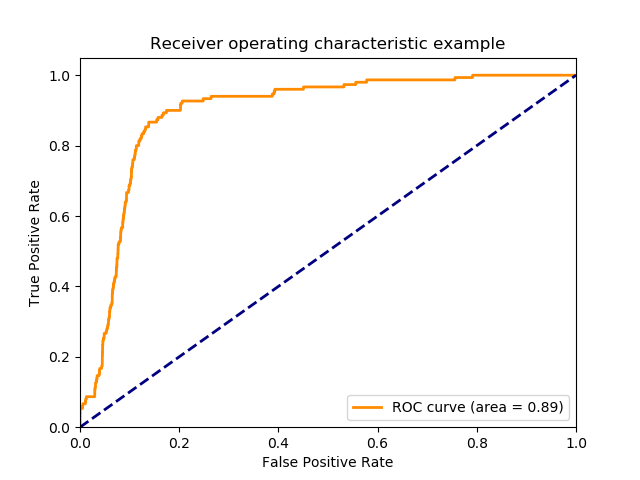
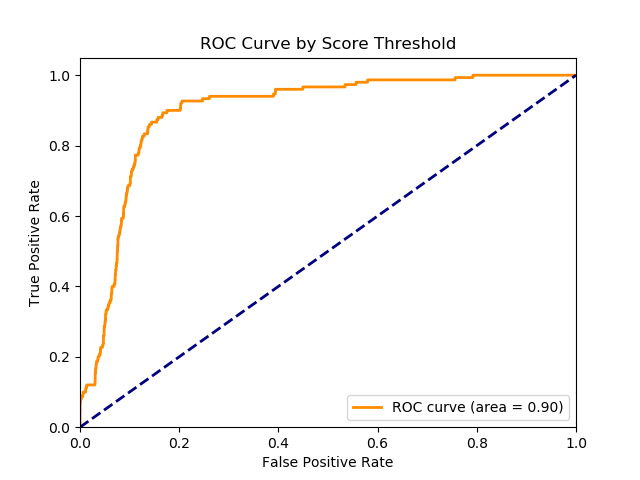
added linear_weight_optimization funciton

Changed region(s): [[0.2188, 0.0625, 0.7812, 0.125], [0.125, 0.25, 0.25, 0.8438], [0.8438, 0.8438, 0.875, 0.875]]

diff --git a/source/engine/weights.py b/source/engine/weights.py
@@ -11,26 +11,50 @@ from engine import Engine
 class WeightVector:
     @staticmethod
     def cartisian_weight_approximation(n_features, axis_lim, inc):
-        # total_expected_run_time_in_hrs = (single_run_in_min * dimension_single_axis^dimension_weights)/60
+        # total_expected_run_time_in_hrs = (single_run_in_min *
+        #                                   dimension_single_axis^dimension_weights)/60
         all_weights = list(itertools.product(range(axis_lim[0], axis_lim[1]+inc, inc), repeat=n_features))
         total_engine_runs = len(all_weights)
         logging.info('Beginning cartisian_weight_approximation')
         logging.info(f'Planning out {total_engine_runs} engine runs.')
 
         t1 = time.time()
-        temp_dict = []
-        with progressbar.ProgressBar(max_value=total_engine_runs) as bar:
-            for weights in all_weights:
-                engine = Engine()
-                engine.rank_all_questions(weights, log_disabled=True)
-                weight_dict = {f'f{i}': w for i, w in enumerate(weights)}
-                weight_dict['error'] = engine.residuals.get_total_error()
-                temp_dict.append(weight_dict)
-                # bar.update(i)
+        results_dict = []
+        bar = progressbar.ProgressBar()
+        for weights in bar(all_weights):
+            engine = Engine(log_disabled=True, visuals_active=False)
+            engine.rank_all_questions(weights, None)
+            weight_dict = {f'f{i}': w for i, w in enumerate(weights)}
+            weight_dict['error'] = engine.residuals.get_total_error()
+            results_dict.append(weight_dict)
 
         t2 = time.time()
         logging.info(f'cartisian_weight_approximation finished in {(t2-t1)/60} minutes.')
-        pd.DataFrame(temp_dict).to_csv('error_by_cartisian_weight.csv', index=False)
+        pd.DataFrame(results_dict).to_csv('error_by_cartisian_weight.csv', index=False)
+
+    @staticmethod
+    def linear_weight_tune(features, axis_lim, inc):
+        results_dict = []
+        init_w = np.repeat(1, len(features))
+
+        logging.info('Beginning linear_weight_tune')
+        total_engine_runs = len(list(range(axis_lim[0], axis_lim[1], inc))) * len(features)
+        logging.info(f'Planning out {total_engine_runs} engine runs.')
+
+        t1 = time.time()
+        bar = progressbar.ProgressBar()
+        for feature_i in bar(range(len(features))):
+            for weight in range(axis_lim[0], axis_lim[1], inc):
+                weights = init_w.copy()
+                weights[feature_i] = weight
+                engine = Engine(log_disabled=True, visuals_active=False)
+                engine.rank_all_questions(weights, None)
+                weight_dict = {feature: weights[i] for i, feature in enumerate(features)}
+                weight_dict['error'] = engine.residuals.get_total_error()
+                results_dict.append(weight_dict)
+        t2 = time.time()
+        logging.info(f'linear_weight_tune finished in {(t2-t1)/60} minutes.')
+        pd.DataFrame(results_dict).to_csv('error_by_linear_weight.csv', index=False)
 
     @staticmethod
     def tune_weight_vector(n_features, base_alpha=2, exponential_increase=5):
@@ -41,8 +65,8 @@ class WeightVector:
         logging.info(f'Initial random weights: {weights}')
 
         t1 = time.time()
-        engine = Engine()
-        engine.rank_all_questions(weights, log_disabled=True)
+        engine = Engine(log_disabled=True, visuals_active=False)
+        engine.rank_all_questions(weights, None)
         prev_error = engine.residuals.get_total_error()
 
         bar = progressbar.ProgressBar()
@@ -53,7 +77,6 @@ class WeightVector:
         t2 = time.time()
         logging.info(f'\nFinished gradient descent in {(t2-t1)/60} minutes.'
                      f'\nThe final weight vector is {weights}.')
-        engine.rank_all_questions(weights, log_disabled=False)
         return weights
 
     @staticmethod
@@ -70,8 +93,8 @@ class WeightVector:
 
                 a *= exp_increase
                 adjust_weight(increase)
-                e = Engine()
-                e.rank_all_questions(w, log_disabled=True)
+                e = Engine(log_disabled=True, visuals_active=False)
+                e.rank_all_questions(w, None)
                 p_error = c_error
                 c_error = engine.residuals.get_total_error()
             return p_weight
@@ -81,8 +104,8 @@ class WeightVector:
         alpha *= exp_increase
         adjust_weight(True)
 
-        engine = Engine()
-        engine.rank_all_questions(w, log_disabled=True)
+        engine = Engine(log_disabled=True, visuals_active=False)
+        engine.rank_all_questions(w, None)
         current_error = engine.residuals.get_total_error()
         # if the error decreases, repeat the same operation unit it does not
         if current_error < prev_error:
@@ -95,7 +118,7 @@ class WeightVector:
             w[i] = prev_weight
             adjust_weight(False)
 
-            engine = Engine()
-            engine.rank_all_questions(w, log_disabled=True)
+            engine = Engine(log_disabled=True, visuals_active=False)
+            engine.rank_all_questions(w, None)
             current_error = engine.residuals.get_total_error()
             return loop_until_error_increase(current_error, prev_error, alpha, False)

diff --git a/source/engine/engine.py b/source/engine/engine.py
@@ -122,8 +122,8 @@ class Engine:
     t1 = time.time()
 
     # load questions and all user activities
-    X = pd.read_csv(BASE_PATH + 'X_train.csv').head(33)
-    y = pd.read_csv(BASE_PATH + 'y_train.csv').head(33)
+    X = pd.read_csv(BASE_PATH + 'X_train.csv').head(35) #.sample(35, random_state=42)
+    y = pd.read_csv(BASE_PATH + 'y_train.csv').head(35) #.sample(35, random_state=42)
     X['CreationDate'] = pd.to_datetime(X['CreationDate'], format="%Y-%m-%dT%H:%M:%S")
 
     # load engineered features
@@ -144,18 +144,23 @@ class Engine:
     t2 = time.time()
     logging.info(f'DataFrame loading finished in time {t2 - t1} seconds.\n')
 
-    def __init__(self):
-        self.residuals = Residuals(Engine.X, Engine.y)
-        self.recommender_user_matrix = np.zeros((len(Engine.X), len(Engine.unique_users_list)))
-        self.recommender_score_matrix = np.zeros((len(Engine.X), len(Engine.unique_users_list)))
-        self.recommender_label_matrix = np.zeros((len(Engine.X), len(Engine.unique_users_list)))
+    def __init__(self, log_disabled=False, save_feature_matrices=False,
+                 visuals_active=True):
+        self.log_disabled, self.save_feature_matrices, \
+            self.visuals_active = log_disabled, save_feature_matrices, visuals_active
 
-    def rank_all_questions(self, w, opt_activity, log_disabled=False, save_output=False):
-        if save_output and not os.path.exists('feature_matrices'):
+        self.residuals = Residuals(Engine.X, Engine.y)
+        if visuals_active:
+            self.recommender_user_matrix = np.zeros((len(Engine.X), len(Engine.unique_users_list)))
+            self.recommender_score_matrix = np.zeros((len(Engine.X), len(Engine.unique_users_list)))
+            self.recommender_label_matrix = np.zeros((len(Engine.X), len(Engine.unique_users_list)))
+
+    def rank_all_questions(self, w, opt_activity):
+        if self.save_feature_matrices and not os.path.exists('feature_matrices'):
             os.makedirs('feature_matrices')
 
         logger = logging.getLogger()
-        logger.disabled = log_disabled
+        logger.disabled = self.log_disabled
         n_features = len(w)
 
         # n_features + 2, for the user id column and score column
@@ -171,16 +176,19 @@ class Engine:
         for index, row in bar(Engine.X.iterrows()):
             question_score_matrix = Engine._rank_question(row, copy(matrix_init), w, opt_activity)
             self.residuals.compute_and_store_residuals(question_score_matrix, index)
-            # store the user matrix and score results for entropy visualization and roc curve
-            self.recommender_user_matrix[index, :] = question_score_matrix[:, 0]
-            self.recommender_score_matrix[index, :] = question_score_matrix[:, -1]
 
-            if save_output:
+            if self.visuals_active:
+                # store the user matrix and score results for entropy visualization and roc curve
+                self.recommender_user_matrix[index, :] = question_score_matrix[:, 0]
+                self.recommender_score_matrix[index, :] = question_score_matrix[:, -1]
+
+            if self.save_feature_matrices:
                 np.savetxt(f'./feature_matrices/q_{index}_feature_matrix.csv', question_score_matrix, delimiter=',')
         t2 = time.time()
 
-        # finally add labels for residuals for roc curve
-        self.residuals.build_label_matrix(self.recommender_label_matrix)
+        if self.visuals_active:
+            # finally add labels for residuals for roc curve
+            self.residuals.build_label_matrix(self.recommender_label_matrix)
 
         logging.info(f'Ranking all questions computation finished in {(t2 - t1)/60} minutes.\n'
                      f'With an average time of {(t2 - t1)/len(Engine.X)} seconds per question.')

diff --git a/source/engine/test.py b/source/engine/test.py
@@ -6,20 +6,11 @@ import logging
 import os
 
 
-class TestBasic:
-    def __init__(self, n_features):
-        self.n_features = n_features
-
-    def random_weight(self):
-        engine = Engine()
-        weights = np.random.rand(1, self.n_features)[0] + 1.5
-        engine.rank_all_questions(weights, None)
-
-
 class TestPlots:
-    def __init__(self, n_features):
+    def __init__(self, n_features, weights=None):
+        if not weights:
+            weights = np.repeat(1, n_features)
         self.engine = Engine()
-        weights = np.random.rand(1, n_features)[0] + 1.5
         self.engine.rank_all_questions(weights, None)
 
     def residual_matrix(self):
@@ -38,23 +29,25 @@ class TestPlots:
         ResidualPlots.plot_variance_per_rank(self.engine.recommender_user_matrix,
                                              'TEST_entropy_per_rank.png')
 
-    def ROC_curve_all_activities(self):
+    def roc_curve_all_activities(self):
         score_matrix, label_matrix = self.engine.recommender_score_matrix, self.engine.recommender_label_matrix
-        ResidualPlots.plot_roc_curve_for_all_activities(score_matrix, label_matrix, 'TEST_ROC_curve_all_activities.png')
+        ResidualPlots.plot_roc_curve_for_all_activities(score_matrix, label_matrix, 'TEST_roc_curve_all_activities.png')
 
 
 class TestWeightVector:
-    def __init__(self, n_features):
-        self.n_features = n_features
+    def __init__(self, feature_names):
+        self.feature_names = feature_names
 
     def weight_tune(self):
-        engine = Engine()
-        w = WeightVector.tune_weight_vector(self.n_features)
-        print('Optimized weight vector:', w)
+        engine = Engine(visuals_active=True)
+        w = WeightVector.tune_weight_vector(len(self.feature_names))
         engine.rank_all_questions(w, None)
 
-    def build_error_matrix_by_cartisian_weight(self, axis_lim, inc):
-        WeightVector.cartisian_weight_approximation(self.n_features, axis_lim, inc)
+    def brute_force_weight_optimization(self, axis_lim, inc):
+        WeightVector.cartisian_weight_approximation(self.feature_names, axis_lim, inc)
+
+    def linear_weight_optimization(self, axis_lim, inc):
+        WeightVector.linear_weight_tune(self.feature_names, axis_lim, inc)
 
 
 class Test:
@@ -64,15 +57,14 @@ class Test:
         pt.residual_matrix()
         pt.rank_distributions()
         pt.error_by_threshold()
-        pt.ROC_curve_all_activities()
+        pt.roc_curve_all_activities()
         pt.variance_per_rank()
 
     @staticmethod
     def save_residual_files(n_features):
-        engine = Engine()
-        # weights = np.random.rand(1, n_features)[0] + 1.5
+        engine = Engine(save_feature_matrices=True, visuals_active=False)
         weights = np.repeat(1, n_features)
-        engine.rank_all_questions(weights, None, save_output=True)
+        engine.rank_all_questions(weights, None)
 
         # residuals data frame
         raw_r = ResidualPlots.build_residual_dataframe(engine.residuals.raw_residuals_per_question)
@@ -114,9 +106,11 @@ Post Features and Residual Analysis:
 
 if __name__ == '__main__':
     set_up_log_files('run.log')
-    Test.plot_tests(6)
+    # Test.plot_tests(6)
     # Test.save_residual_files(6)
 
-    # t = TestWeightVector(6)
+    features = ['availability', 'reputation', 'views', 'upvotes', 'downvotes', 'expertise']
+    t = TestWeightVector(features)
+    t.linear_weight_optimization((-200, 1000), 200)
     # t.build_error_matrix_by_cartisian_weight((-500, 1000), 500) # 52 hours
     # t.build_error_matrix_by_cartisian_weight((-250, 1000), 750) # 9 hours

diff --git a/source/engine/visuals.py b/source/engine/visuals.py
@@ -123,7 +123,7 @@ class ResidualPlots:
 
     @staticmethod
     def plot_roc_curve_for_all_activities(score_matrix, label_matrix, save_path):
-        fpr, tpr, _ = roc_curve(np.asarray(label_matrix).ravel(), np.asarray(score_matrix).ravel())
+        fpr, tpr, _ = roc_curve(label_matrix.ravel(), score_matrix.ravel())
         roc_auc = auc(fpr, tpr)
 
         lw = 2
@@ -134,7 +134,7 @@ class ResidualPlots:
         plt.ylim([0.0, 1.05])
         plt.xlabel('False Positive Rate')
         plt.ylabel('True Positive Rate')
-        plt.title('Receiver operating characteristic example')
+        plt.title('ROC Curve by Score Threshold')
         plt.legend(loc="lower right")
         plt.savefig(save_path)
         plt.show()
